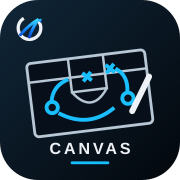
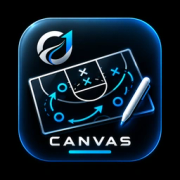
Apply approved ZERO ONE CANVAS branding
* Apply approved ZERO ONE CANVAS artwork

* Render ZERO ONE Canvas icons

---------

diff --git a/index.html b/index.html
@@ -10,7 +10,7 @@
   <!-- アプリの説明を設定します。 -->
   <meta name="description" content="問いからプレーをつくる、動くバスケ作戦キャンバス" />
   <!-- PWA用のマニフェストを読み込みます。 -->
-  <link rel="manifest" href="./1_App/manifest.webmanifest?v=20261006d" />
+  <link rel="manifest" href="./1_App/manifest.webmanifest?v=20261007a" />
   <!-- iPadのホーム画面から単独アプリとして起動できるようにします。 -->
   <meta name="apple-mobile-web-app-capable" content="yes" />
   <!-- iPadでのステータスバー表示を指定します。 -->
@@ -18,14 +18,14 @@
   <!-- iPadのホーム画面に表示するアプリ名です。 -->
   <meta name="apple-mobile-web-app-title" content="ZEROONE CANVAS" />
   <!-- iPadのホーム画面に表示するアイコンです。 -->
-  <link rel="icon" type="image/svg+xml" href="./1_App/img/zeroone_icon.svg?v=20261006d" /><link rel="alternate icon" type="image/png" sizes="192x192" href="./1_App/img/zeroone_icon_192.png?v=20261006d" />
-  <link rel="apple-touch-icon" href="./1_App/img/zeroone_icon_180.png?v=20261006d" />
+  <link rel="icon" type="image/svg+xml" href="./1_App/img/zeroone_icon_192.png?v=20261007a" /><link rel="alternate icon" type="image/png" sizes="192x192" href="./1_App/img/zeroone_icon_512.png?v=20261007a" />
+  <link rel="apple-touch-icon" href="./1_App/img/zeroone_icon_180.png?v=20261007a" />
   <!-- 画面デザイン用のCSSを読み込みます。 -->
   <link rel="stylesheet" href="./1_App/css/styles.css?v=49" />
   <!-- ブラウザーのタブに表示する名前です。 -->
   <title>ZEROONE CANVAS｜動くバスケ作戦キャンバス</title>
 </head>
-<body><a class="mobile-brand-logo" href="#" aria-label="ZERO ONE CANVAS"><img src="./1_App/img/zeroone_icon.png" alt="ZERO ONE"></a><div class="zeroone-splash" aria-hidden="true"><img src="./1_App/img/zeroone_icon.png" alt=""><strong>ZERO ONE</strong><span>CANVAS</span></div>
+<body><a class="mobile-brand-logo" href="#" aria-label="ZERO ONE CANVAS"><img src="./branding/zero-one-logo.svg?v=20261007a" alt="ZERO ONE"></a><div class="zeroone-splash" aria-hidden="true"><img src="./branding/zero-one-logo.svg?v=20261007a" alt=""><strong>ZERO ONE</strong><span>CANVAS</span></div>
   <!-- アプリ全体を包む領域です。 -->
   <main class="app-shell">
     <!-- 上部ヘッダーです。 -->
@@ -33,7 +33,7 @@
       <!-- アプリ名と作戦名をまとめます。 -->
       <div class="brand-area">
         <!-- アプリの簡易ロゴです。 -->
-        <div class="brand-mark" aria-hidden="true"><img src="./1_App/img/zeroone_icon.png" alt="" /></div>
+        <div class="brand-mark" aria-hidden="true"><img src="./branding/zero-one-logo.svg?v=20261007a" alt="" /></div>
         <!-- 作戦名入力欄を含む領域です。 -->
         <div class="brand-copy">
           <!-- アプリ名です。 -->
